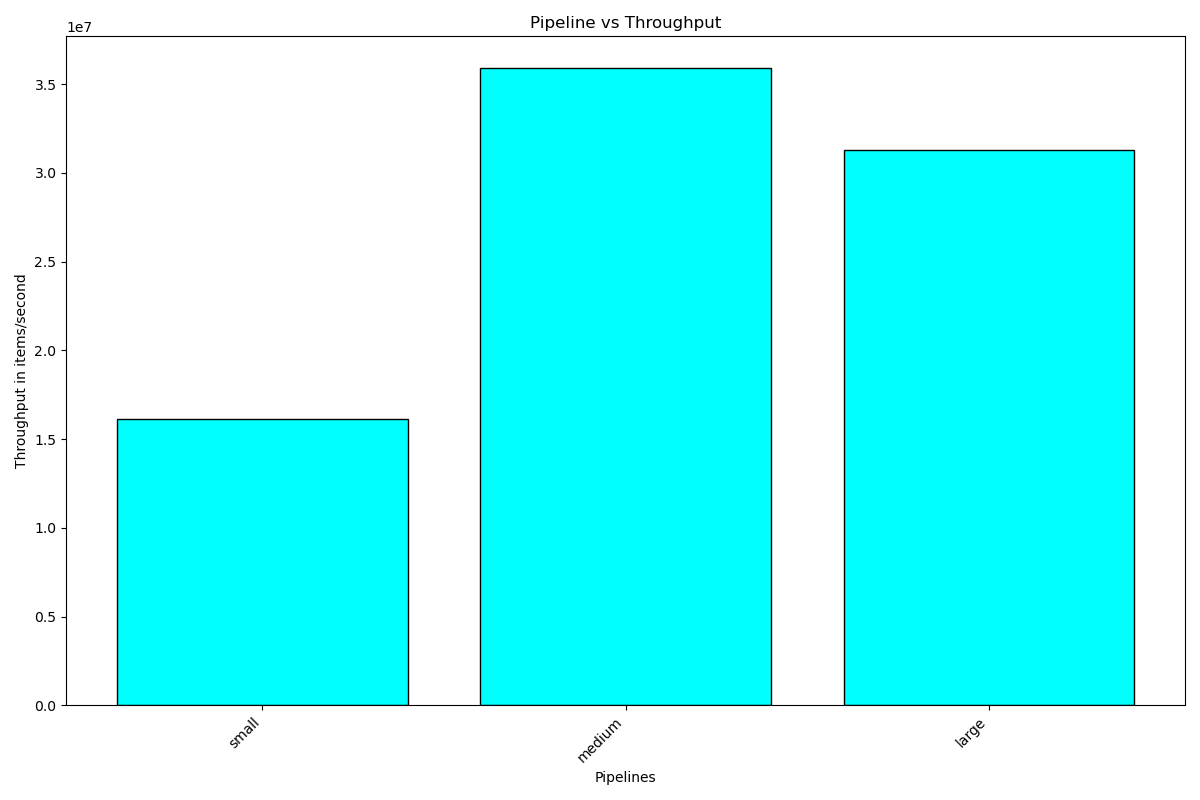
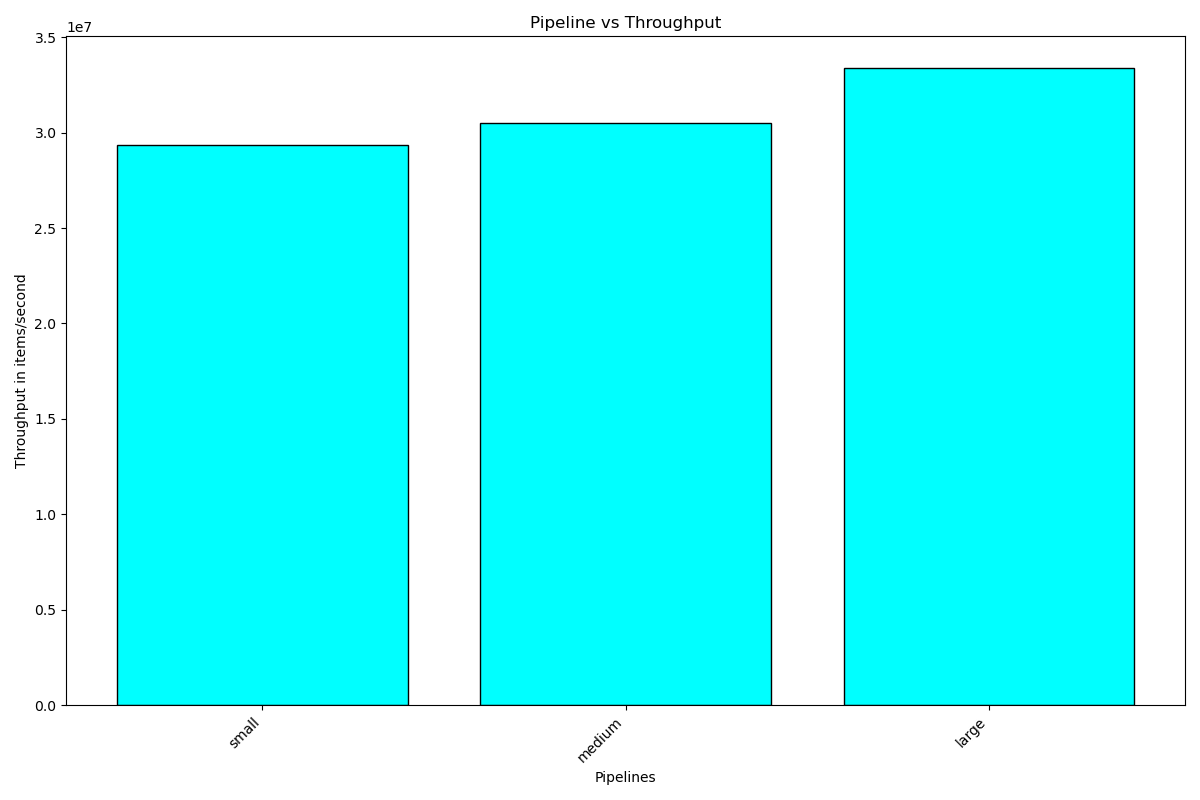
Finish Part 3

diff --git a/part3.py b/part3.py
@@ -41,6 +41,8 @@ get uploaded when you submit.
 
 # You may need to conda install requests or pip3 install requests
 import requests
+import subprocess
+import os
 
 def download_file(url, filename):
     r = requests.get(url)
@@ -48,25 +50,42 @@ def download_file(url, filename):
         f.write(r.content)
 
 def clone_repo(repo_url):
-    # TODO
-    raise NotImplementedError
+    repo_name = repo_url.rstrip('/').split('/')[-1]
+
+    if os.path.exists(repo_name):
+        print("Repo already exists, skipping clone.")
+        return
+    subprocess.run(['git', 'clone', repo_url], check=True)
+
 
 def run_script(script_path, data_path):
-    # TODO
-    raise NotImplementedError
+    subprocess.run(["python3", script_path, data_path], check=True)
+
 
 def setup(repo_url, data_url, script_path):
-    # TODO
-    raise NotImplementedError
+    data_file = "input_data.txt"
+    download_file(data_url, data_file)
+    
+    # Clone the repo
+    clone_repo(repo_url)
+    
+    # Run the script
+    run_script(script_path, data_file)
+
 
 def q1():
     # Call setup as described in the prompt
-    # TODO
+    setup(
+        "https://github.com/DavisPL-Teaching/119-hw1",
+        "https://raw.githubusercontent.com/DavisPL-Teaching/119-hw1/refs/heads/main/data/test-input.txt",
+        "test-script.py"
+    )
     # Read the file test-output.txt to a string
-    # TODO
+    with open("output/test-output.txt") as f:
     # Return the integer value of the output
-    # TODO
-    raise NotImplementedError
+        output = int(f.read().strip())
+    
+    return output
 
 """
 2.
@@ -78,13 +97,15 @@ a. When might you need to use a script like setup() above in
 this scenario?
 
 === ANSWER Q2a BELOW ===
-
+Scripts will be useful when automating data pipelines that I want to run more than once like in our case,
+which ensuring reproducibility and avoids redundancy across the team, making the results consistent for everyone.
 === END OF Q2a ANSWER ===
 
 Do you see an alternative to using a script like setup()?
 
 === ANSWER Q2b BELOW ===
-
+Yeah, I know some technologies exist like Docker, Kuberneties, Cloud, that can help with managing 
+consistency and accuracy of environments across various different machines.
 === END OF Q2b ANSWER ===
 
 3.
@@ -125,16 +146,36 @@ any packages?
 """
 
 def setup_for_new_machine():
-    # TODO
-    raise NotImplementedError
+    py_packages_needed = [
+        'pandas',        
+        'matplotlib', 
+        'math',
+        'time',            
+        'requests',
+        'subprocess',
+        'os'
+    ]
+    
+    # Install packages using pip3
+    for package in py_packages_needed:
+        print(f"Installing {package}...")
+        result = subprocess.run(['conda', 'install', package], 
+                              capture_output=True, text=True)
+    
+    # Create necessary directories
+    directories = ['output', 'data']
+    for directory in directories:
+        if not os.path.exists(directory):
+            os.makedirs(directory)
+            print(f"Creating directory: {directory}")
+    
+
 
 def q3():
     # As your answer, return a string containing
     # the operating system name that you assumed the
     # new machine to have.
-    # TODO
-    raise NotImplementedError
-    # os =
+    os = 'MacOS'
     return os
 
 """
@@ -147,7 +188,9 @@ scripts like setup() and setup_for_new_machine()
 in their day-to-day jobs?
 
 === ANSWER Q4 BELOW ===
-
+I think maybe around 25% of the time because while scripting is importing, I think data scientists focus
+more on modelling, fine-tuning and analyzing to derive insights from the data. This seems something Data
+Engineers might be doing more often. 
 === END OF Q4 ANSWER ===
 
 5.
@@ -164,7 +207,9 @@ If you don't have a friend's machine, please speculate about
 what might happen if you tried. You can guess.
 
 === ANSWER Q5 BELOW ===
-
+I didn't check with a friend but I think Q3 should work if my friend has conda, has a similar machine (OS and architecture)
+as long as he has no permission issues or shell issues and a directory set up to run the script so that appropriate 
+sub-directories are made.
 === END OF Q5 ANSWER ===
 
 ===== Questions 6-9: A comparison of shell vs. Python =====
@@ -221,20 +266,27 @@ with:
 """
 
 def pipeline_shell():
-    # TODO
-    raise NotImplementedError
-    # Return resulting integer
+    command = "cat data/population.csv | tail -n +2 | wc -l"
+    result = os.popen(command).read().strip()
+    return int(result)
 
 def pipeline_pandas():
-    # TODO
-    raise NotImplementedError
-    # Return resulting integer
+    df = pd.read_csv('data/population.csv')
+    return len(df)
 
 def q6():
     # As your answer to this part, check that both
     # integers are the same and return one of them.
-    # TODO
-    raise NotImplementedError
+    shell = pipeline_shell()
+    pandas = pipeline_pandas()
+    
+    # Verify they're the same
+    if (shell == pandas): 
+        print("Counts match")
+    else:
+        print("Counts don't match")
+    
+    return shell
 
 """
 Let's do a performance comparison between the two methods.
@@ -252,8 +304,17 @@ def q7():
     # Return a list of two floats
     # [throughput for shell, throughput for pandas]
     # (in rows per second)
-    # TODO
-    raise NotImplementedError
+    # Get the row count for throughput calculation
+    row_count = q6()
+    
+    t = part2.ThroughputHelper()
+    t.add_pipeline('shell', row_count, pipeline_shell)
+    t.add_pipeline('pandas', row_count, pipeline_pandas)
+    
+    throughputs = t.compare_throughput()
+    t.generate_plot('output/part3-q7.png')
+    
+    return throughputs
 
 """
 8. Latency
@@ -271,15 +332,24 @@ def q8():
     # Return a list of two floats
     # [latency for shell, latency for pandas]
     # (in milliseconds)
-    # TODO
-    raise NotImplementedError
+    l = part2.LatencyHelper()
+
+    l.add_pipeline('shell', pipeline_shell)
+    l.add_pipeline('pandas', pipeline_pandas)
+    
+    latencies = l.compare_latency()
+    l.generate_plot('output/part3-q8.png')
+    
+    return latencies
 
 """
 9. Which method is faster?
 Comment on anything else you notice below.
 
 === ANSWER Q9 BELOW ===
-
+Pandas is much faster in terms of both Throughput and Latency because I'm assuming shell commands through
+os.popen() or subprocess have a lot of setting up in the background, slowing the process, as well as more
+functions/commands used in shell compared to just len in pandas.
 === END OF Q9 ANSWER ===
 """
 

diff --git a/part1.py b/part1.py
@@ -142,7 +142,7 @@ def q2(dfs):
             return False
         if df.columns.tolist() != NEW_COLUMNS: # columns order checks
             return False
-    return True
+    return True 
 
 
 """
@@ -184,10 +184,10 @@ def q3(dfs):
     # - that the set of university names in each year is the same
     # Return:
     # - True if they are the same, and False otherwise.
-    universities_2019 = set(dfs[0]['university'])
+    universities_2019 = set(dfs[0]['university'])  # get only 2019 universities
 
-    for df in dfs[1:]:
-        if set(df['university']) != universities_2019:
+    for df in dfs[1:]: 
+        if set(df['university']) != universities_2019: # other dfs check against the set of 2019 universities
             return False
     
     return True 
@@ -238,10 +238,10 @@ Hint:
 def q4(dfs):
     # Sample 5 rows from each dataframe
     # Print out the samples
-    for i, df in enumerate(dfs):
+    for i, df in enumerate(dfs): # get index and the dataframe
         samples = df.sample(5)
-        if i == 2:
-            sample_universities = samples['university'].tolist()
+        if i == 2: 
+            sample_universities = samples['university'].tolist() # if 2021, return list of sample universities
 
     # Answer as a list of 5 university names
     return sample_universities
@@ -293,14 +293,14 @@ def q5a(dfs):
     # (Since .info() does not return any values,
     # for this part, you will need to copy and paste
     # the output as a hardcoded list.)
-    return [100, 100, 100, 100, 100, 100, 100, 100]
+    return [100, 100, 100, 100, 100, 100, 100, 100] # hardcoded
 
 
 def q5b(dfs):
     non_null_counts = []
 
     for col in dfs[2].columns:
-        non_null_counts.append(dfs[2][col].count())
+        non_null_counts.append(dfs[2][col].count()) # get all non_null values in each col
 
     # Remember to return the list here
     return non_null_counts
@@ -313,7 +313,7 @@ We will use this in the unit tests below.
 """
 
 def q5c():
-    # TODO: fill this in with the expected number
+    # fill this in with the expected number
     num_non_null = 100
     return num_non_null
 
@@ -418,7 +418,7 @@ def q7(dfs):
     years = [2019, 2020, 2021]
     num_columns = []
     for y, df in enumerate(dfs):
-        df["year"] = years[y]
+        df["year"] = years[y]    # append an 'year' column in each dataframe
         num_columns.append(len(df.columns))
 
     return num_columns 
@@ -434,17 +434,17 @@ As your answer, return the count for "USA" in 2021.
 def q8a(dfs):
     years = [2019, 2020, 2021]
     regional_counts_yearly = []
-    for y, df in enumerate(dfs):
+    for y, df in enumerate(dfs): # get the year and the dataframe
         top_100 = df[df['rank'] <= 100]
 
-        regional_counts = top_100.groupby('region').size()
+        regional_counts = top_100.groupby('region').size() # used groupby to group by regions and get regional counts for each
         
         print(f"Top 100 universities by region in {years[y]}:")
         print(regional_counts)
 
-        regional_counts_yearly.append(regional_counts)
+        regional_counts_yearly.append(regional_counts) # add to regional_counts_yearly
 
-    # Remember to return the count here
+    # return the count of universities from USA 
     return regional_counts_yearly[2]["USA"]
 
 """
@@ -475,7 +475,7 @@ def q9(dfs):
     averages = []
     for col in dfs[2].columns:
         if col in attributes:
-            averages.append(dfs[2][col].mean())
+            averages.append(dfs[2][col].mean())   # append the average score of all attributes for all universities
 
     return averages
 
@@ -493,7 +493,7 @@ def q10_helper(dfs):
     # print(dfs[2].dtypes)
     columns_to_avg = ['academic reputation', 'employer reputation', 'faculty student', 'citations per faculty', 'overall score']
 
-    avg_2021 = dfs[2].groupby('region')[columns_to_avg].mean()
+    avg_2021 = dfs[2].groupby('region')[columns_to_avg].mean() # group by region to find averageof attributes
     return avg_2021
 
 def q10(avg_2021):

diff --git a/part2.py b/part2.py
@@ -38,7 +38,7 @@ Fill in the add_pipeline, eval_throughput, and generate_plot functions below.
 # Number of times to run each pipeline in the following results.
 # You may modify this as you go through the file if you like, but make sure
 # you set it back to 10 at the end before you submit.
-NUM_RUNS = 1
+NUM_RUNS = 10
 
 class ThroughputHelper:
     def __init__(self):
@@ -875,7 +875,7 @@ This is an open ended question.)
 
 ===== ANSWER Q17 BELOW =====
 Throughput = items/time, Latency = time/item. The relationship looks inverse to me, i.e. as throughput
-increases, latency should decrease generally.
+increases, latency should decrease.
 ===== END OF Q17 ANSWER =====
 """
 
